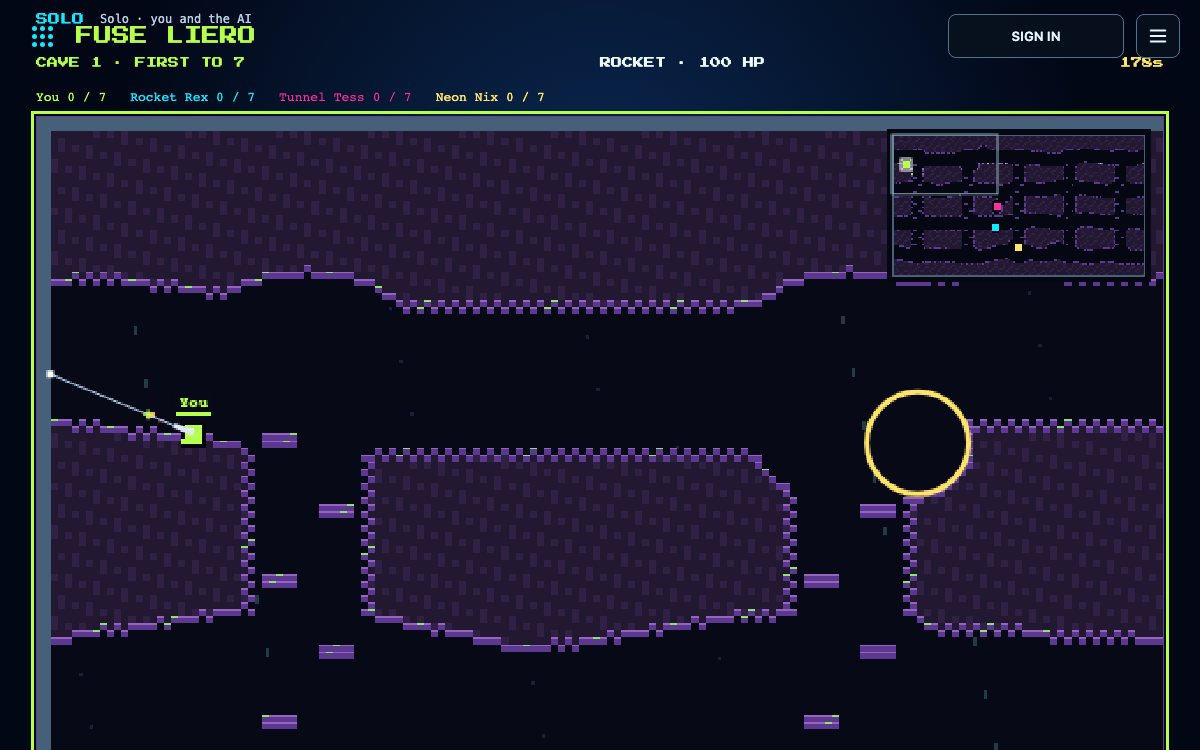
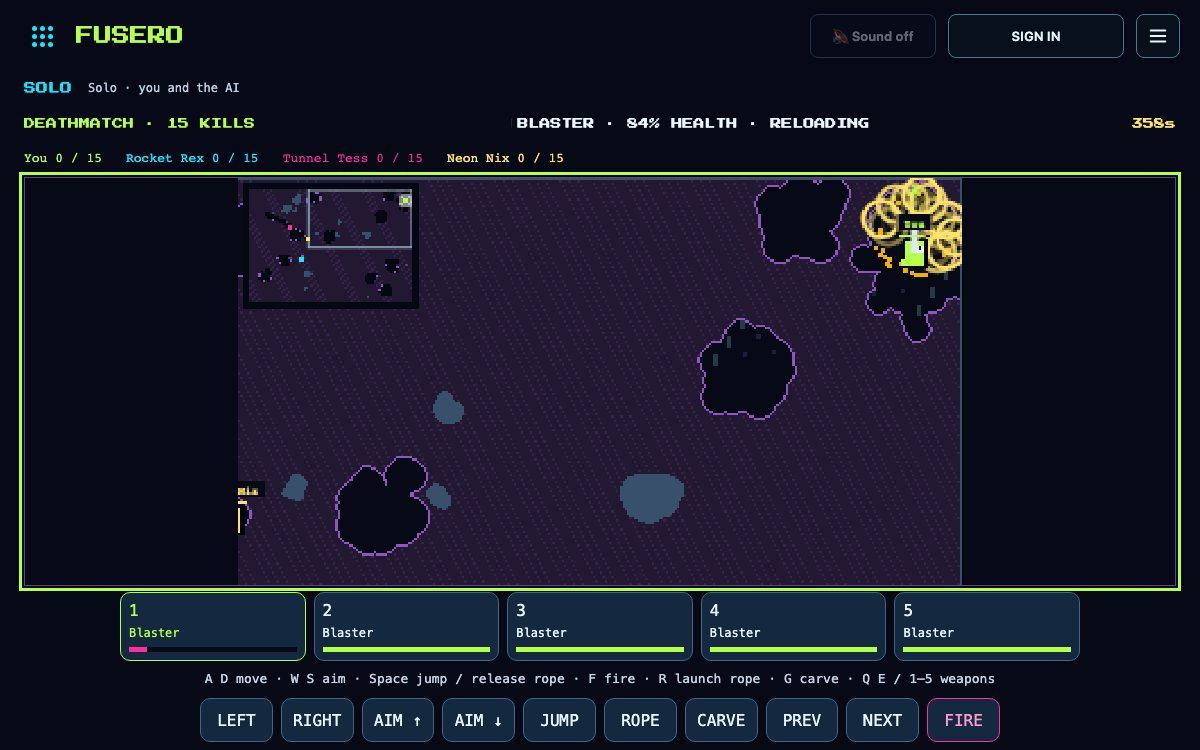
Verify Classic multiplayer and fit Fusero play to every screen

diff --git a/games/fusero/tests/online.test.ts b/games/fusero/tests/online.test.ts
@@ -591,10 +591,14 @@ test("runtime submits lobby inventories, rejects live changes and releases contr
   );
   runtime.input(FIRE | RIGHT);
   assert.equal(runtime.heldNow, FIRE | RIGHT);
+  run(100);
+  assert.equal(runtime.roomState()!.held.a, FIRE | RIGHT);
   runtime.resync();
   runtime.flush();
   runtime.release();
   assert.equal(runtime.heldNow, 0);
+  run(100);
+  assert.equal(Object.hasOwn(runtime.roomState()!.held, "a"), false);
   runtime.input(-1);
   assert.equal(runtime.heldNow, 0);
   runtime.stop();

diff --git a/games/fusero/src/app/style.css b/games/fusero/src/app/style.css
@@ -1,5 +1,6 @@
-.liero-page {
+body.liero-page {
   --liero-lime: #b6ff4d;
+  padding: 0;
   background: #080917;
   color: #ecf7ff;
 }
@@ -404,6 +405,20 @@
     max-width: 800px;
   }
   .liero-pad button {
-    min-height: 42px;
+    min-height: 44px;
+  }
+}
+@media (max-height: 720px) {
+  .liero-overlay h1 {
+    margin: 6px 0;
+    font-size: 16px;
+    line-height: 1.4;
+  }
+  .liero-overlay p {
+    margin: 6px 0;
+    font-size: 12px;
+  }
+  .liero-actions {
+    margin-top: 8px;
   }
 }

diff --git a/games/fusero/tests/classic-world.test.ts b/games/fusero/tests/classic-world.test.ts
@@ -181,6 +181,7 @@ test("integrated local/listen Laser matches all200 native outer-frame slot and q
     vx: 0,
     vy: 0,
   });
+  assert.equal(reference.localLaserFrames.length, 200);
   for (const expected of reference.localLaserFrames) {
     assert.equal(world.elapsedMs, expected.frame * OUTER_MS);
     stepWorld(world, new Map([["a", FIRE]]));

diff --git a/games/fusero/PROGRESS.md b/games/fusero/PROGRESS.md
@@ -2,7 +2,7 @@
 
 ## Current scope
 
-The user clarified that this must be a close clone: original gameplay mechanics, with only graphics styled differently. The public game name and route are now **Fusero** and `/fusero/`. Fuse's networking and room recovery remain the selected architecture. The earlier custom three-weapon simulation is being replaced, and the PR remains a draft.
+The user clarified that this must be a close clone: original gameplay mechanics, with only graphics styled differently. The public game name and route are now **Fusero** and `/fusero/`. Fuse's networking and room recovery remain the selected architecture. Source-derived Classic gameplay replaces the earlier custom three-weapon simulation. Merge and deployment are not authorized.
 
 ## Source-derived work
 
@@ -17,13 +17,13 @@ The user clarified that this must be a close clone: original gameplay mechanics,
 
 The terrain/default-level domain has **20 passing focused tests**, with strict TypeScript and focused ESLint checks. Tests compare original PNG mask pixels, all 176,400 native level material pixels, source digests, carving and dirt-placement behavior, spawn-search bounds and compact terrain serialization. The level generator's `--check` reproduces its retained source exactly.
 
-Other source-derived domains have their own focused tests and native differential evidence; their exact coverage and open gaps belong in [SOURCE-PARITY.md](SOURCE-PARITY.md). No complete-world or browser result is claimed here for the current composed port. Earlier prototype full-suite, multiplayer, screenshot and 60 FPS observations do not validate the replacement engine.
+The composed game has **154 passing focused tests**, including all 38 weapons, deferred shots, strict state validation, deterministic continuation, dropped/reordered input recovery and the integrated 200-frame native Laser timing fixture. TypeScript, scoped lint and the production build pass. Independent core and integration reviews found and corrected projectile RNG ordering, server clock offset and lost short input taps; two review suggestions hardened fixture-length and released-input assertions.
+
+The rebuilt browser smoke passed solo preparation, native terrain, five-slot charge/reload, two players plus a TV, continuous aim, persistent rope with jump release, touch controls, resizing and phone reload recovery. All three replicas converged on the same room hash. Headless real-flow screenshots and a refreshed gallery capture exist; short desktop and portrait phone layouts keep the HUD, five slots and controls inside the viewport. Live weapon selection was exercised through the game menu. These are browser-emulation checks, not physical-phone or human feel acceptance. Earlier prototype observations do not validate this replacement engine. Exact parity coverage and remaining limits belong in [SOURCE-PARITY.md](SOURCE-PARITY.md).
 
 ## Remaining acceptance
 
-- Finish and verify the composed outer/physics clocks, pending shot delivery, complete state validation and deterministic replay.
-- Run the affected integration checks against the final source-derived build, including loadouts/settings, weapon behavior, terrain destruction, input release, multiplayer convergence and recovery.
-- Refresh browser screenshots and gallery captures from that build, and compare actual play against the original.
+- Finish the broader repository checks recorded in the pull request and compare actual play against the original.
 - Obtain human gameplay acceptance and physical-phone evidence. The current bot policy emits ordinary Fuse inputs; native OpenLieroX bot AI remains unported.
 - Keep deployment and merge separate from technical checks. Neither is currently authorized.
 

diff --git a/games/fusero/README.md b/games/fusero/README.md
@@ -53,6 +53,6 @@ pnpm exec tsx --test games/fusero/tests/classic-*.test.ts
 
 The source-data checks verify the packaged binary, descriptors and native material plane. Focused module tests cover mechanics and serialization; native differential fixtures compare the specific physics paths they exercise. These are separate from complete-world replay, multiplayer and browser acceptance.
 
-`ONLINE_URL=http://localhost:PORT/ pnpm exec tsx scripts/fusero-smoke.ts` is the browser integration entry point. It must be refreshed and passed against the composed source-derived engine before its results establish current readiness. `pnpm gallery:capture fusero` refreshes the gallery from real play after a successful build. Earlier prototype screenshots, frame rates and browser results do not validate this replacement engine.
+`ONLINE_URL=http://localhost:PORT/ pnpm exec tsx scripts/fusero-smoke.ts` exercises solo preparation, five-slot charge/reload, two players and a shared TV, native controls, terrain changes, phone reload recovery and full-state convergence. It passed against the composed source-derived engine. `pnpm gallery:capture fusero` refreshes the gallery from real play after a successful build. Earlier prototype results do not validate this replacement engine.
 
 Human gameplay comparison and physical-phone checks remain outstanding. The draft PR is not merge or deployment authorization.
